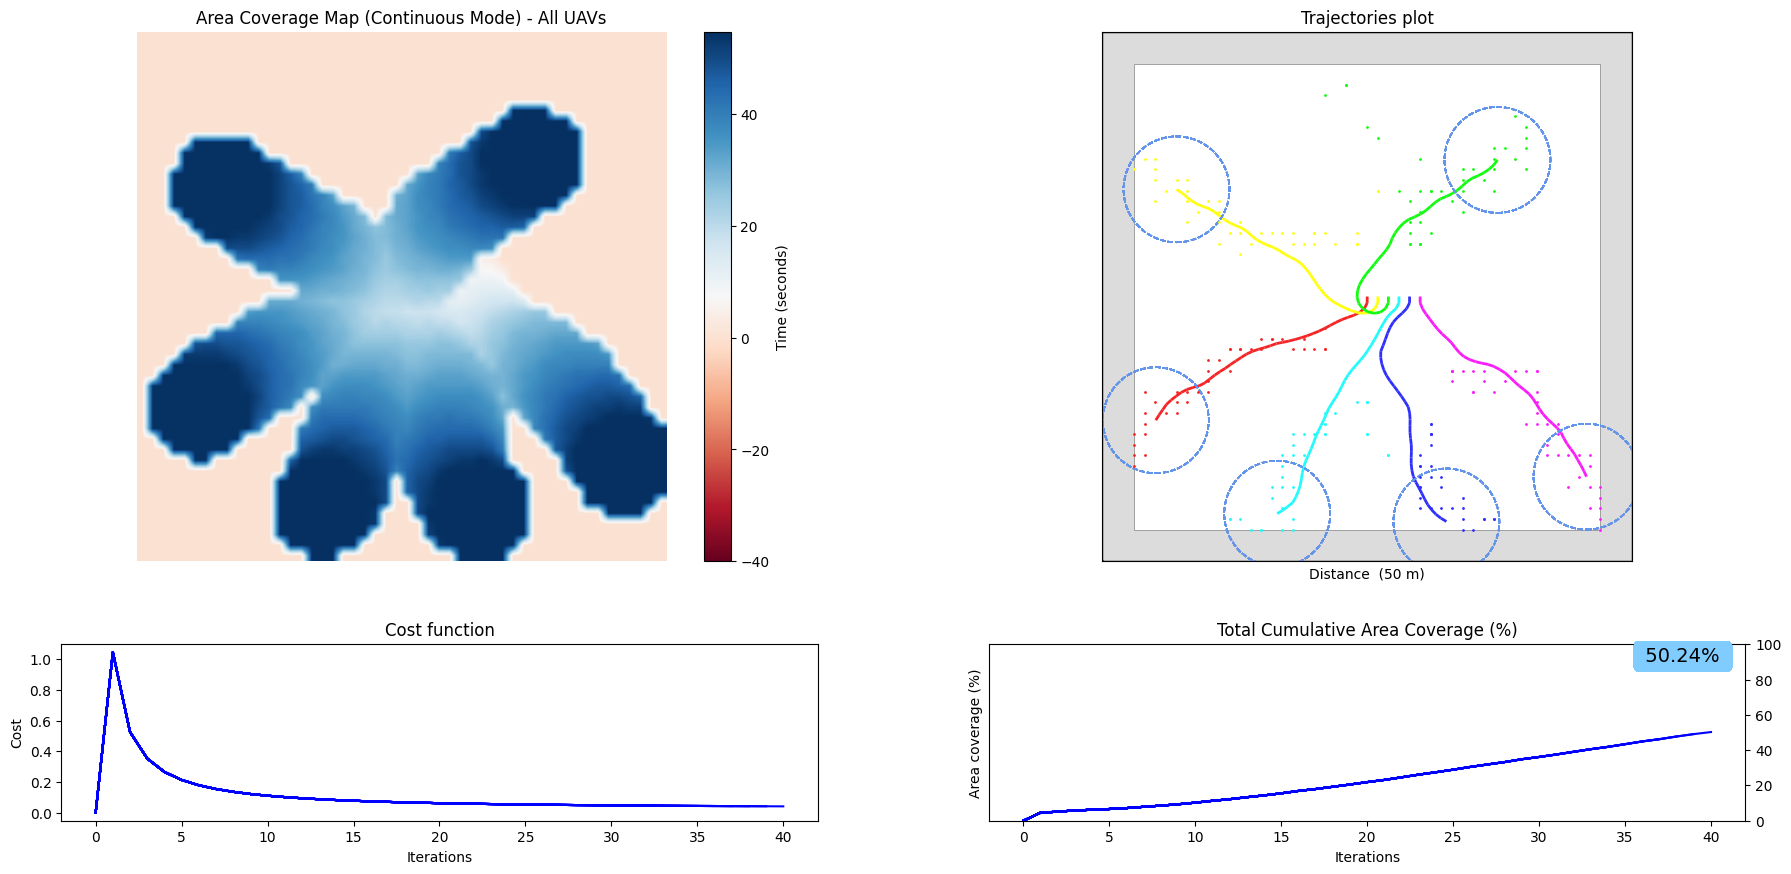
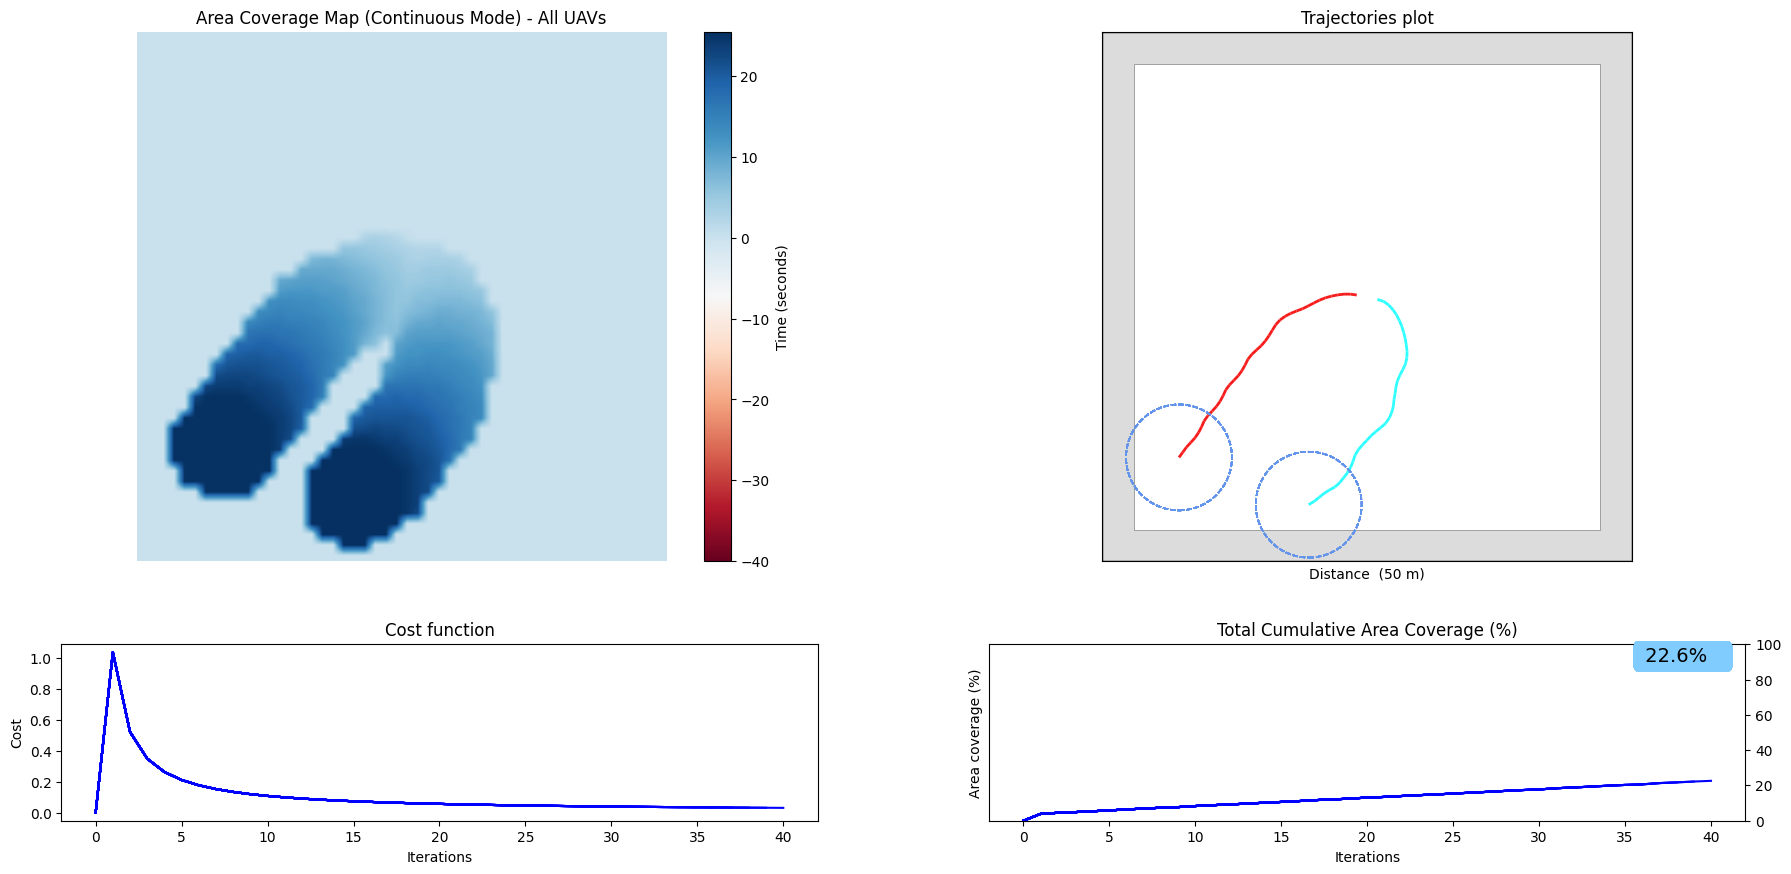
final file structure

diff --git a/constants.py b/constants.py
@@ -74,7 +74,7 @@ class Constants(object):
     SIMULATE_FAILURES = False
 
     # ---------------- FINAL CONDITION ----------------
-    MAX_ITERATIONS = 40    # Define the maximum iterations for covering area
+    MAX_ITERATIONS = 400    # Define the maximum iterations for covering area
     MAX_COVERAGE = 95       # Define the maximum coverage percentage
     
 
@@ -109,10 +109,10 @@ class Constants(object):
     # =======================================================================================================
 
     # --> Only one must be enabled at the same time
-    INIT_CIRCUMFERENCE = False     # UAVs circle init at center
+    INIT_CIRCUMFERENCE = True     # UAVs circle init at center
     INIT_RANDOM = False            # UAVs random init at center
     INIT_LINE_UP = False           # UAVs init with upwards pointing line formation
-    INIT_LINE_DOWN = True          # UAVs init with downwards pointing line formation
+    INIT_LINE_DOWN = False          # UAVs init with downwards pointing line formation
     INIT_LINE_INTERCHANGED = False # UAVs init with interchanged line formation
     
     # TODO: Not working

diff --git a/Swarm.py b/Swarm.py
@@ -1,9 +1,7 @@
 # -*- coding: utf-8 -*- 
-from rules import init
 import numpy as np
 import random, math
 
-from numpy.core.defchararray import array
 from constants import Constants
 
 
@@ -112,12 +110,4 @@ class Swarm(object):
 
         return np.array(angles), np.array(positions)
 
-
-
-class Obstacle(object):
-
-    def __init__(self,ld,ru):
-        self.ld = ld # Left-down coordinates
-        self.ru = ru # Right-up coordinates
-                
 

diff --git a/anti_flocking.py b/anti_flocking.py
@@ -4,7 +4,8 @@ from matplotlib.patches import Circle
 import time
 
 from constants import Constants
-from Swarm import Swarm, Obstacle
+from Swarm import Swarm
+from Obstacle import Obstacle
 from rules import arguments, agent_iteration, percentage_covered
 from plot import add_video, trajectory_patch, plot_coverage_temperature, plot_simulation_map, draw_obstacles, assign_agent_colors, get_screen_dimensions
 from functions import cost_fun

diff --git a/Obstacle.py b/Obstacle.py
@@ -1,0 +1,15 @@
+
+class Obstacle(object):
+    """
+        Class to define Obstacle properties
+    """
+    def __init__(self,ld,ru):
+        """ Init function """
+
+        # Left-down coordinates
+        self.ld = ld 
+
+        # Right-up coordinates
+        self.ru = ru 
+                
+

diff --git a/functions.py b/functions.py
@@ -64,4 +64,6 @@ def radius_covered(cov_map,pos):
     return total_covered
 
 def cost_fun(coverage_percentage, iteration):
-    return math.exp(coverage_percentage)/iteration
+    print(coverage_percentage)
+    print(iteration)
+    return math.exp(coverage_percentage+iteration)/iteration
